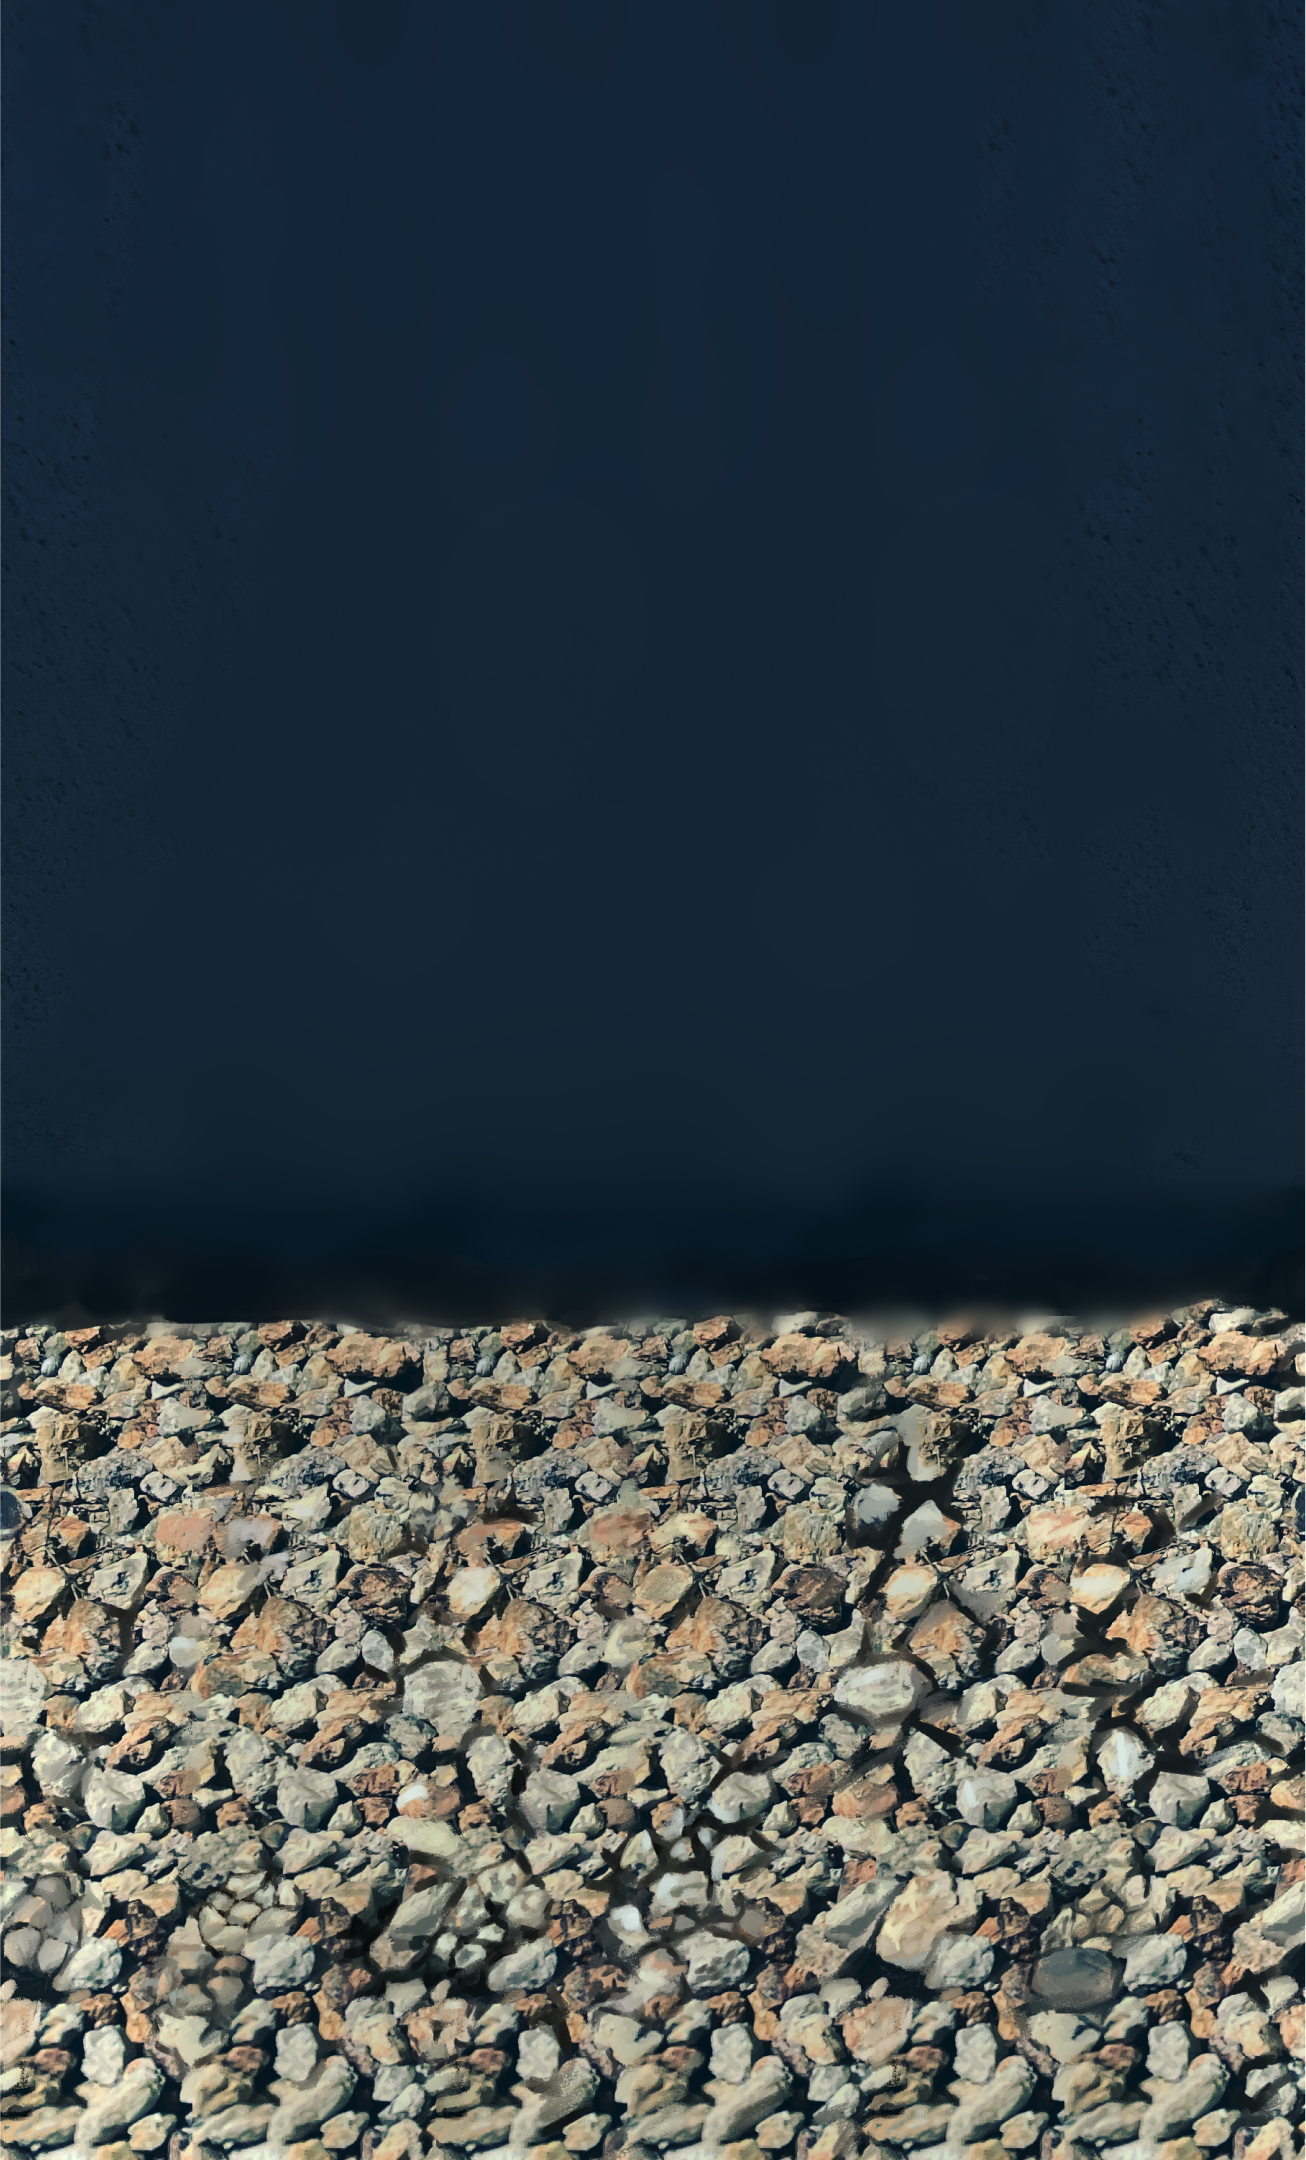
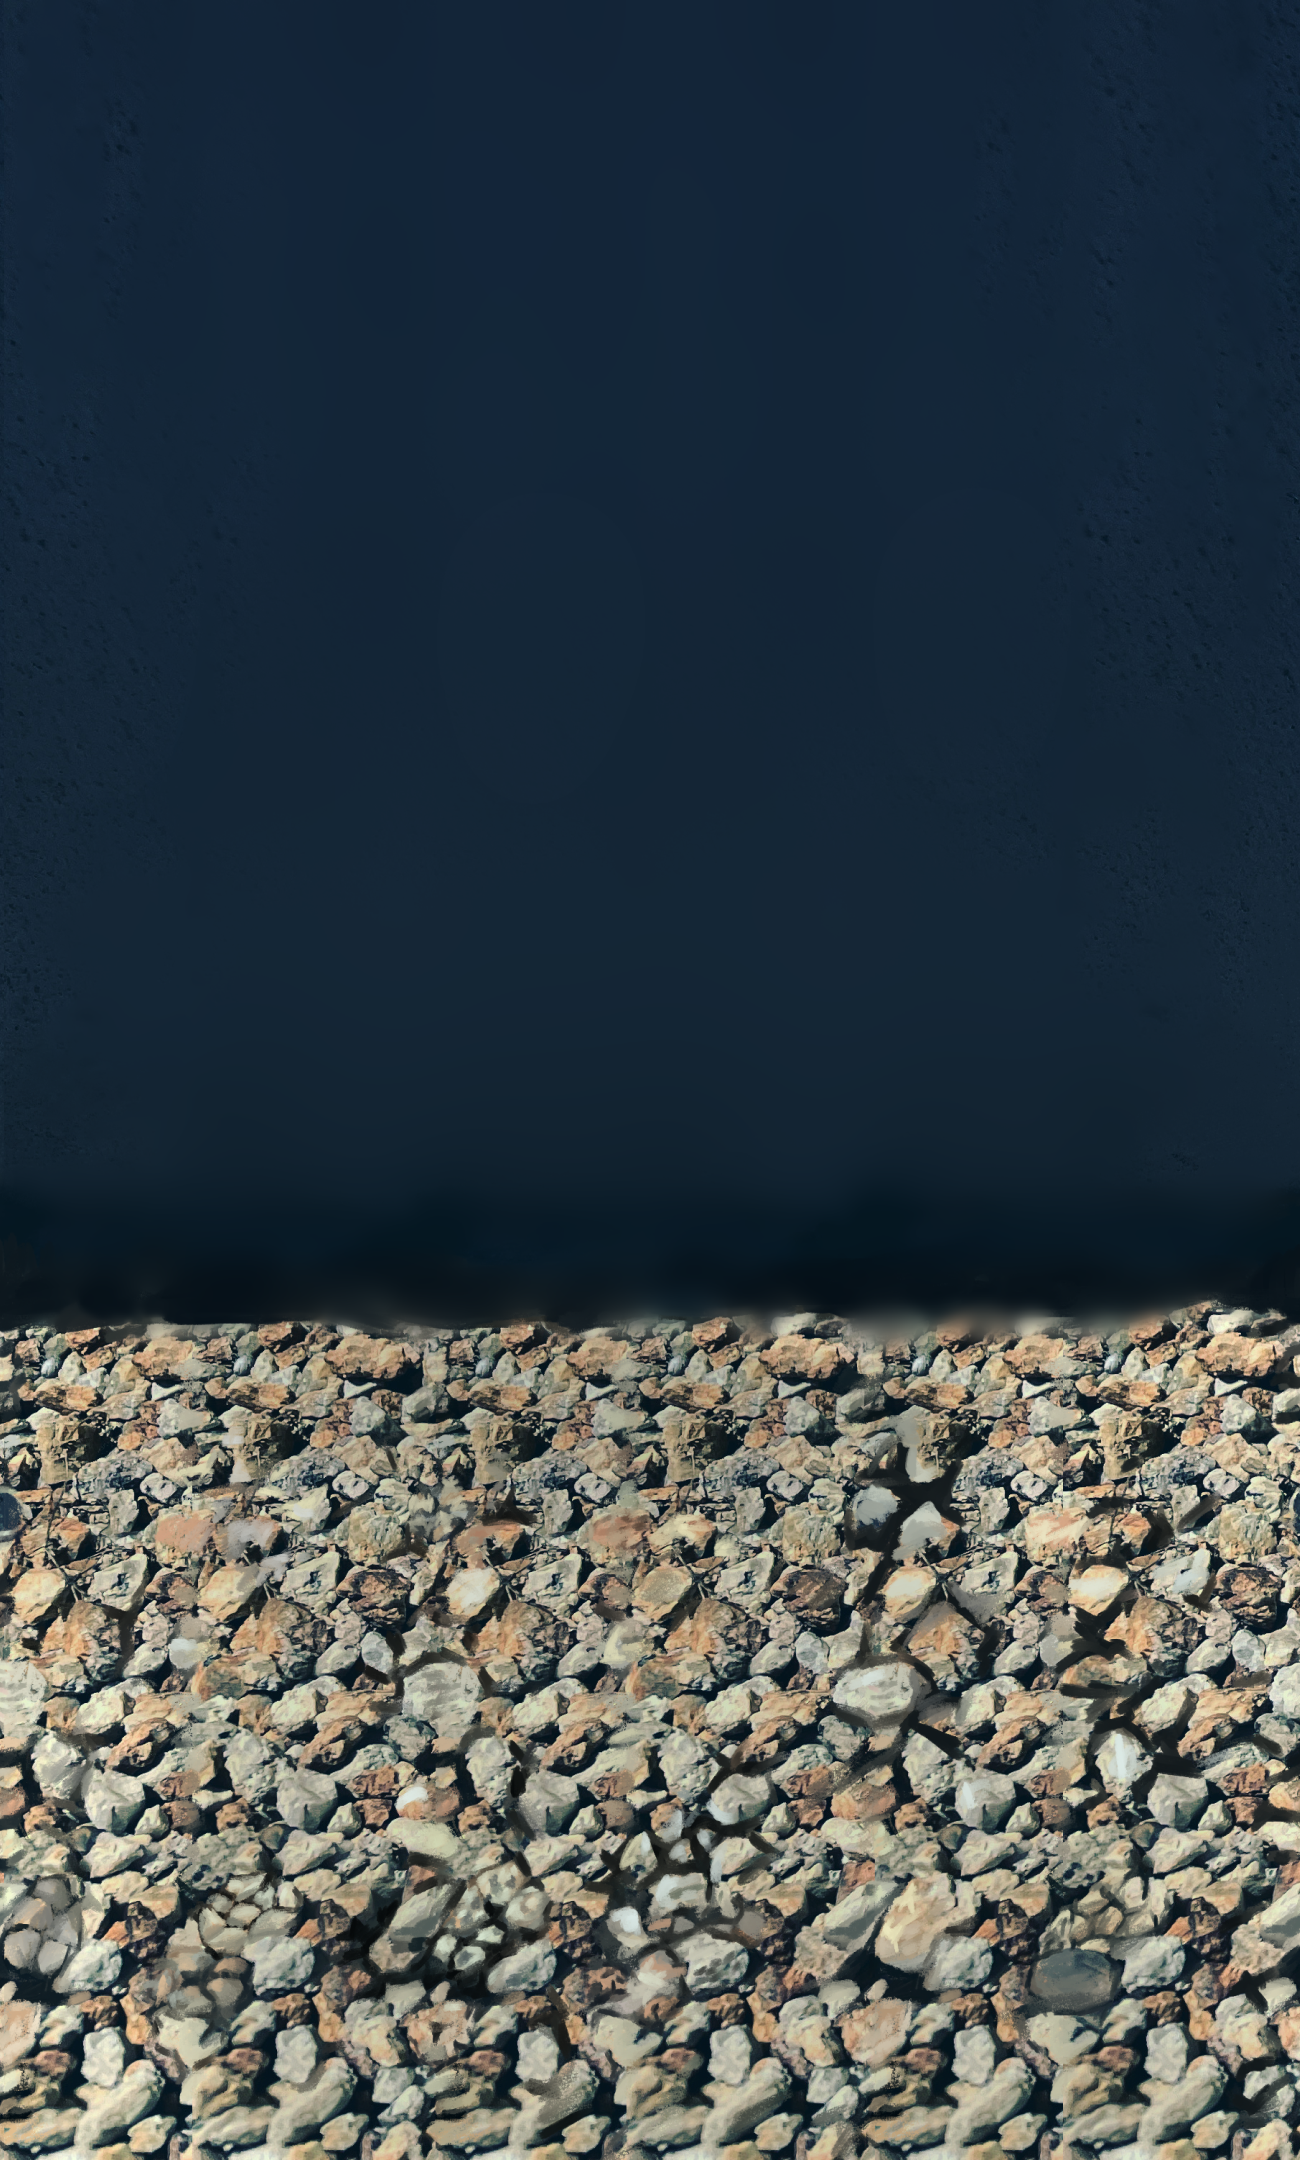
画像の調節
繰り返した時に切れた表現になっていたので、画像を調節し保存し直した。

Changed region(s): [[0.0, 0.5894, 1.0, 1.0]]

diff --git a/index.css b/index.css
@@ -36,10 +36,10 @@ header {
   flex-direction: column;
   align-items: center;
   height: 100vh;
-  background-image: url(./images/top.svg);
+  background: url(./images/top-book.png), url(./images/top-background.png);
   background-size: contain;
   background-position: center center;
-  background-repeat: no-repeat;
+  background-repeat: no-repeat, repeat;
 }
 
 
